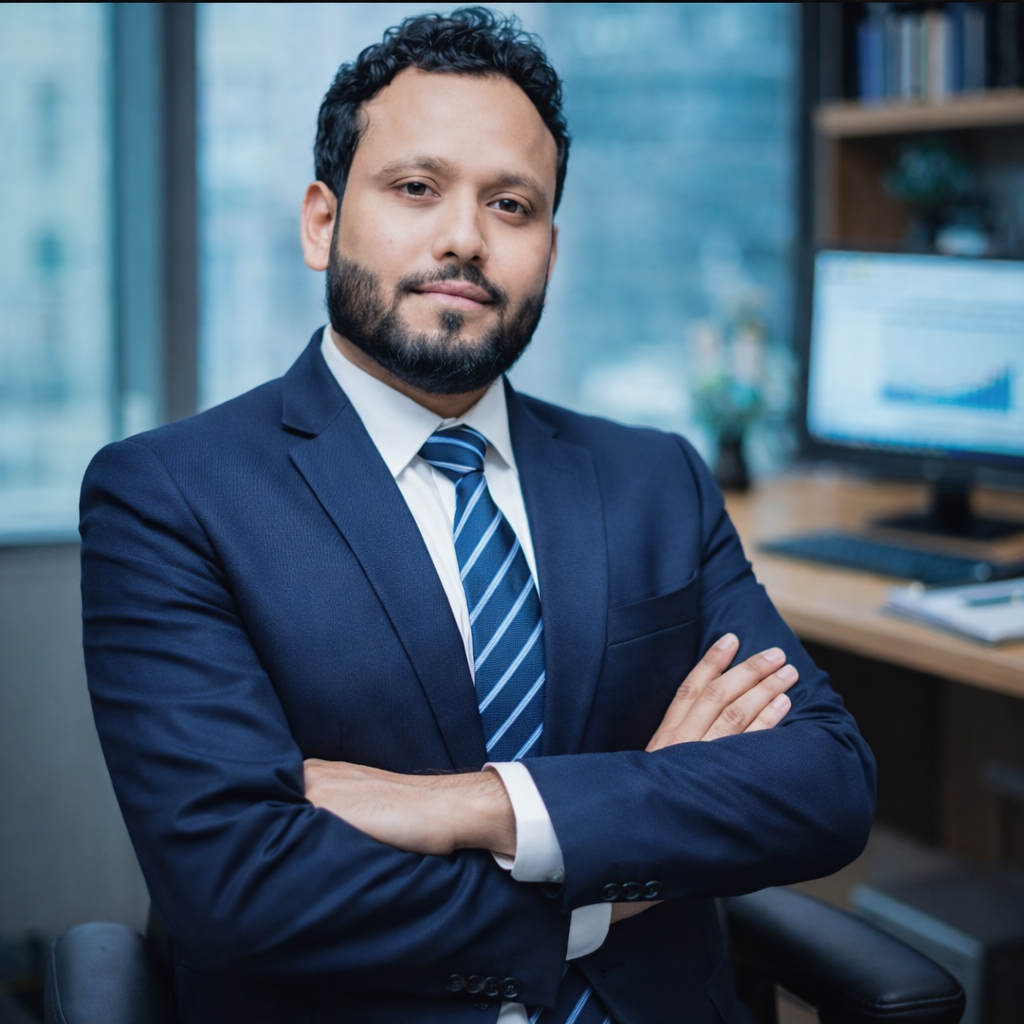
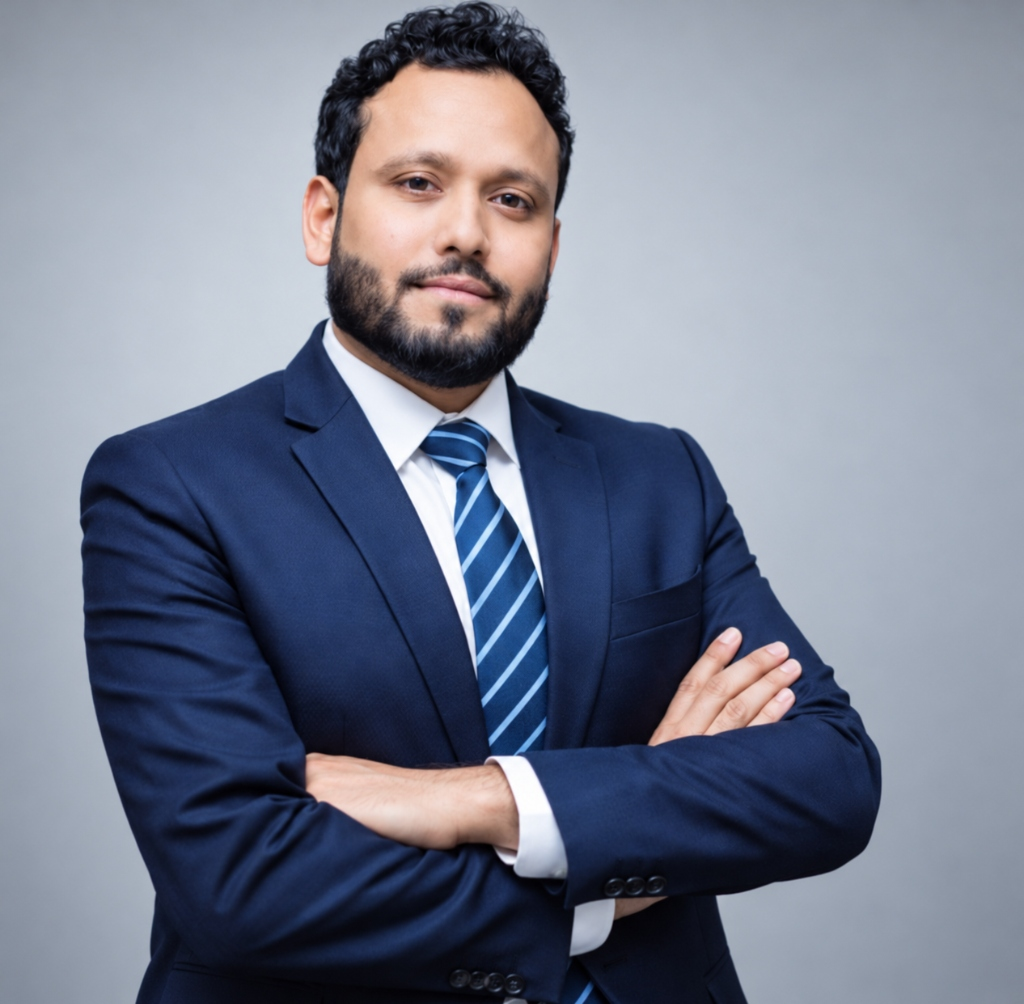
Update photo and profile name for Chairman Jaynath Sah

diff --git a/src/pages/About.jsx b/src/pages/About.jsx
@@ -5,7 +5,7 @@ import Card from '../components/ui/Card';
 import { COMPANY_INFO } from '../utils/constants';
 import headerBg from '../assets/about-header.png';
 import mdPhoto from '../assets/chairman.jpg';
-import jaySahPhoto from '../assets/MD.png';
+import jaySahPhoto from '../assets/jaynath_sah.jpg';
 import mrSherpaPhoto from '../assets/mr_sherpa.jpg';
 import partnerPhoto from '../assets/partner NB.png';
 import registrationImg from '../assets/registration.png';
@@ -27,14 +27,15 @@ const About = () => {
         "@context": "https://schema.org",
         "@type": "AboutPage",
         "name": "About Faisal Management Services LLC",
-        "description": "Company profile, government registration 165229/73/74, license 1289/074/75, Kuwait C.R. 2020/19741, Chairman Jay Sah and Managing Director Mr. Sherpa.",
+        "description": "Company profile, government registration 165229/73/74, license 1289/074/75, Kuwait C.R. 2020/19741, Chairman Jaynath Sah and Managing Director Mr. Sherpa.",
         "url": "https://faisalnepal.com.np/about",
         "mainEntity": {
             "@type": "EmploymentAgency",
             "name": "Faisal Management Services LLC",
             "founder": {
                 "@type": "Person",
-                "name": "Jay Sah",
+                "name": "Jaynath Sah",
+                "alternateName": "Jay Sah",
                 "jobTitle": "Chairman"
             },
             "employee": {
@@ -49,8 +50,8 @@ const About = () => {
         <>
             <SEO 
                 title="About Us - Leadership, Licenses & Embassy Registered Clients"
-                description="Learn about Faisal Management Services (formerly Sony International), led by Chairman Jay Sah and Managing Director Mr. Sherpa. Verified government licenses and 49+ Kuwait Embassy registered employers."
-                keywords="About Faisal Management, Jay Sah Chairman, Mr. Sherpa Managing Director, Kuwait Embassy Registration, Nepal Manpower License 1289/074/75, Sony International Nepal"
+                description="Learn about Faisal Management Services (formerly Sony International), led by Chairman Jaynath Sah and Managing Director Mr. Sherpa. Verified government licenses and 49+ Kuwait Embassy registered employers."
+                keywords="About Faisal Management, Jaynath Sah Chairman, Jay Sah, Mr. Sherpa Managing Director, Kuwait Embassy Registration, Nepal Manpower License 1289/074/75, Sony International Nepal"
                 canonicalPath="/about"
                 schema={aboutSchema}
             />
@@ -93,7 +94,7 @@ const About = () => {
                             <div className="relative mx-auto w-full max-w-[280px] sm:max-w-xs md:max-w-none h-auto rounded-xl overflow-hidden shadow-lg border border-gray-100">
                                 <img
                                     src={jaySahPhoto}
-                                    alt="Chairman"
+                                    alt="Chairman Jaynath Sah"
                                     className="w-full h-auto"
                                     onError={(e) => {
                                         e.target.src = 'https://images.unsplash.com/photo-1560250097-0b93528c311a?q=80&w=1974&auto=format&fit=crop';
@@ -103,7 +104,7 @@ const About = () => {
                         </div>
                         <div className="w-full md:w-3/5 text-center md:text-left">
                             <h2 className="text-2xl sm:text-3xl font-bold text-primary mb-2">Message from the Chairman</h2>
-                            <h3 className="text-lg sm:text-xl font-semibold text-gray-700 mb-4 sm:mb-6">Jay Sah</h3>
+                            <h3 className="text-lg sm:text-xl font-semibold text-gray-700 mb-4 sm:mb-6">Jaynath Sah</h3>
 
                             <div className="space-y-4 text-gray-600 mb-6 text-base sm:text-lg leading-relaxed">
                                 <p>First of all, we would like to extend our warm and heartfelt greetings to all members of the business community, both abroad and in Nepal.</p>
